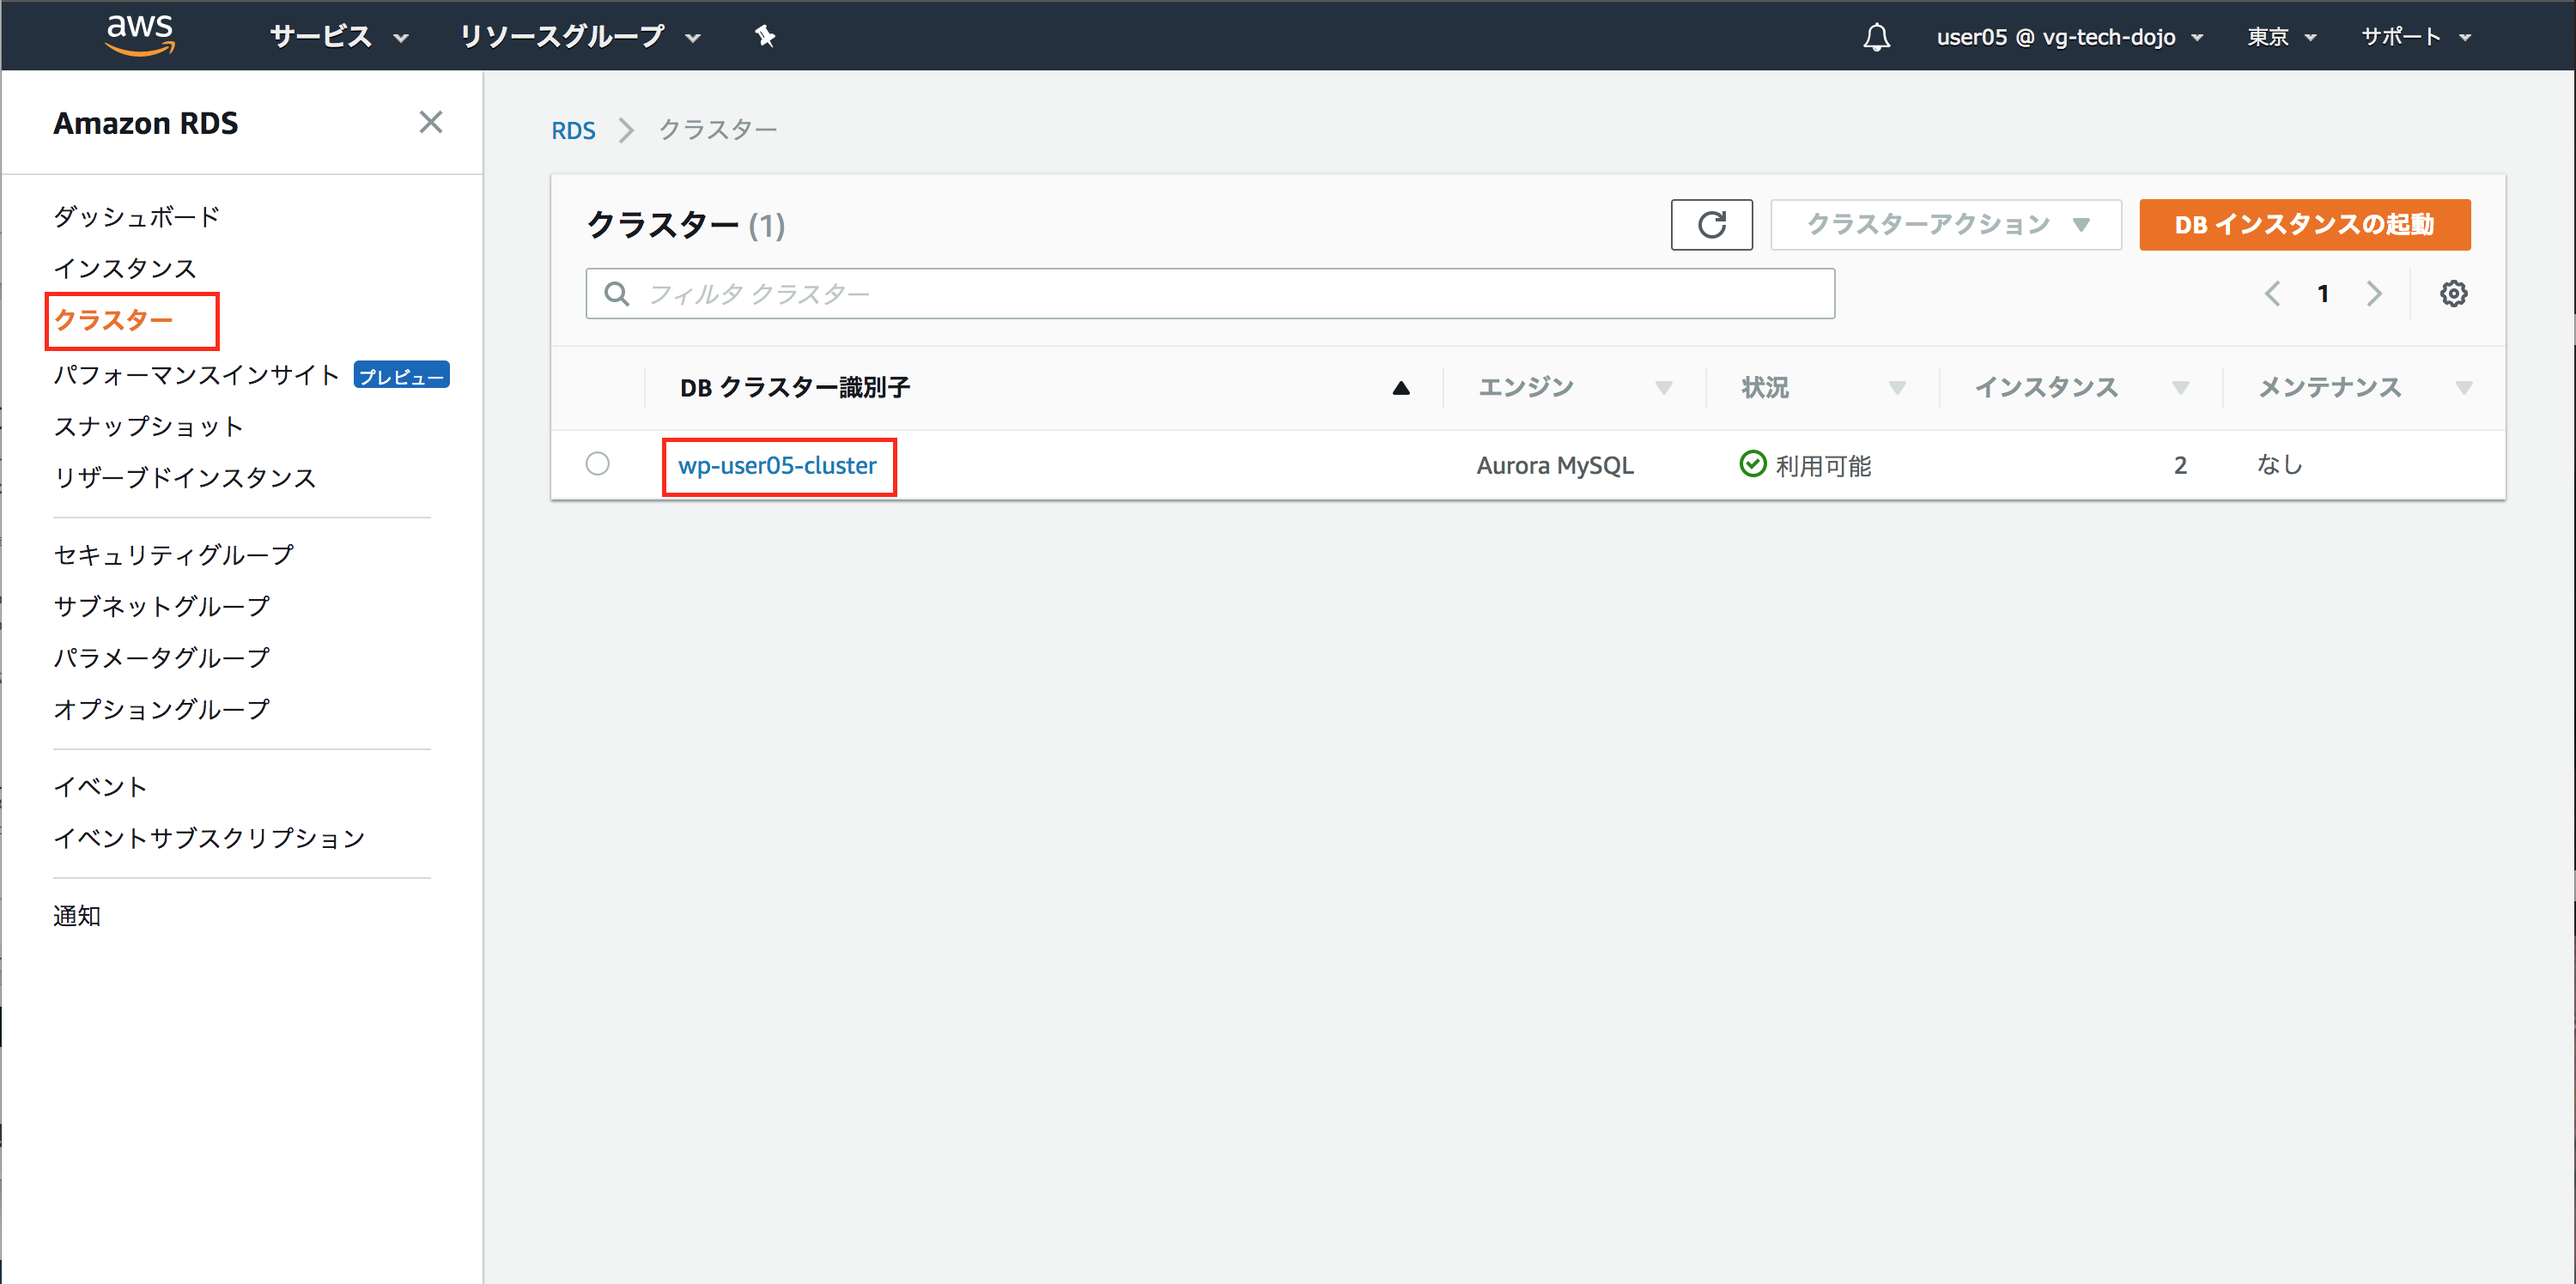
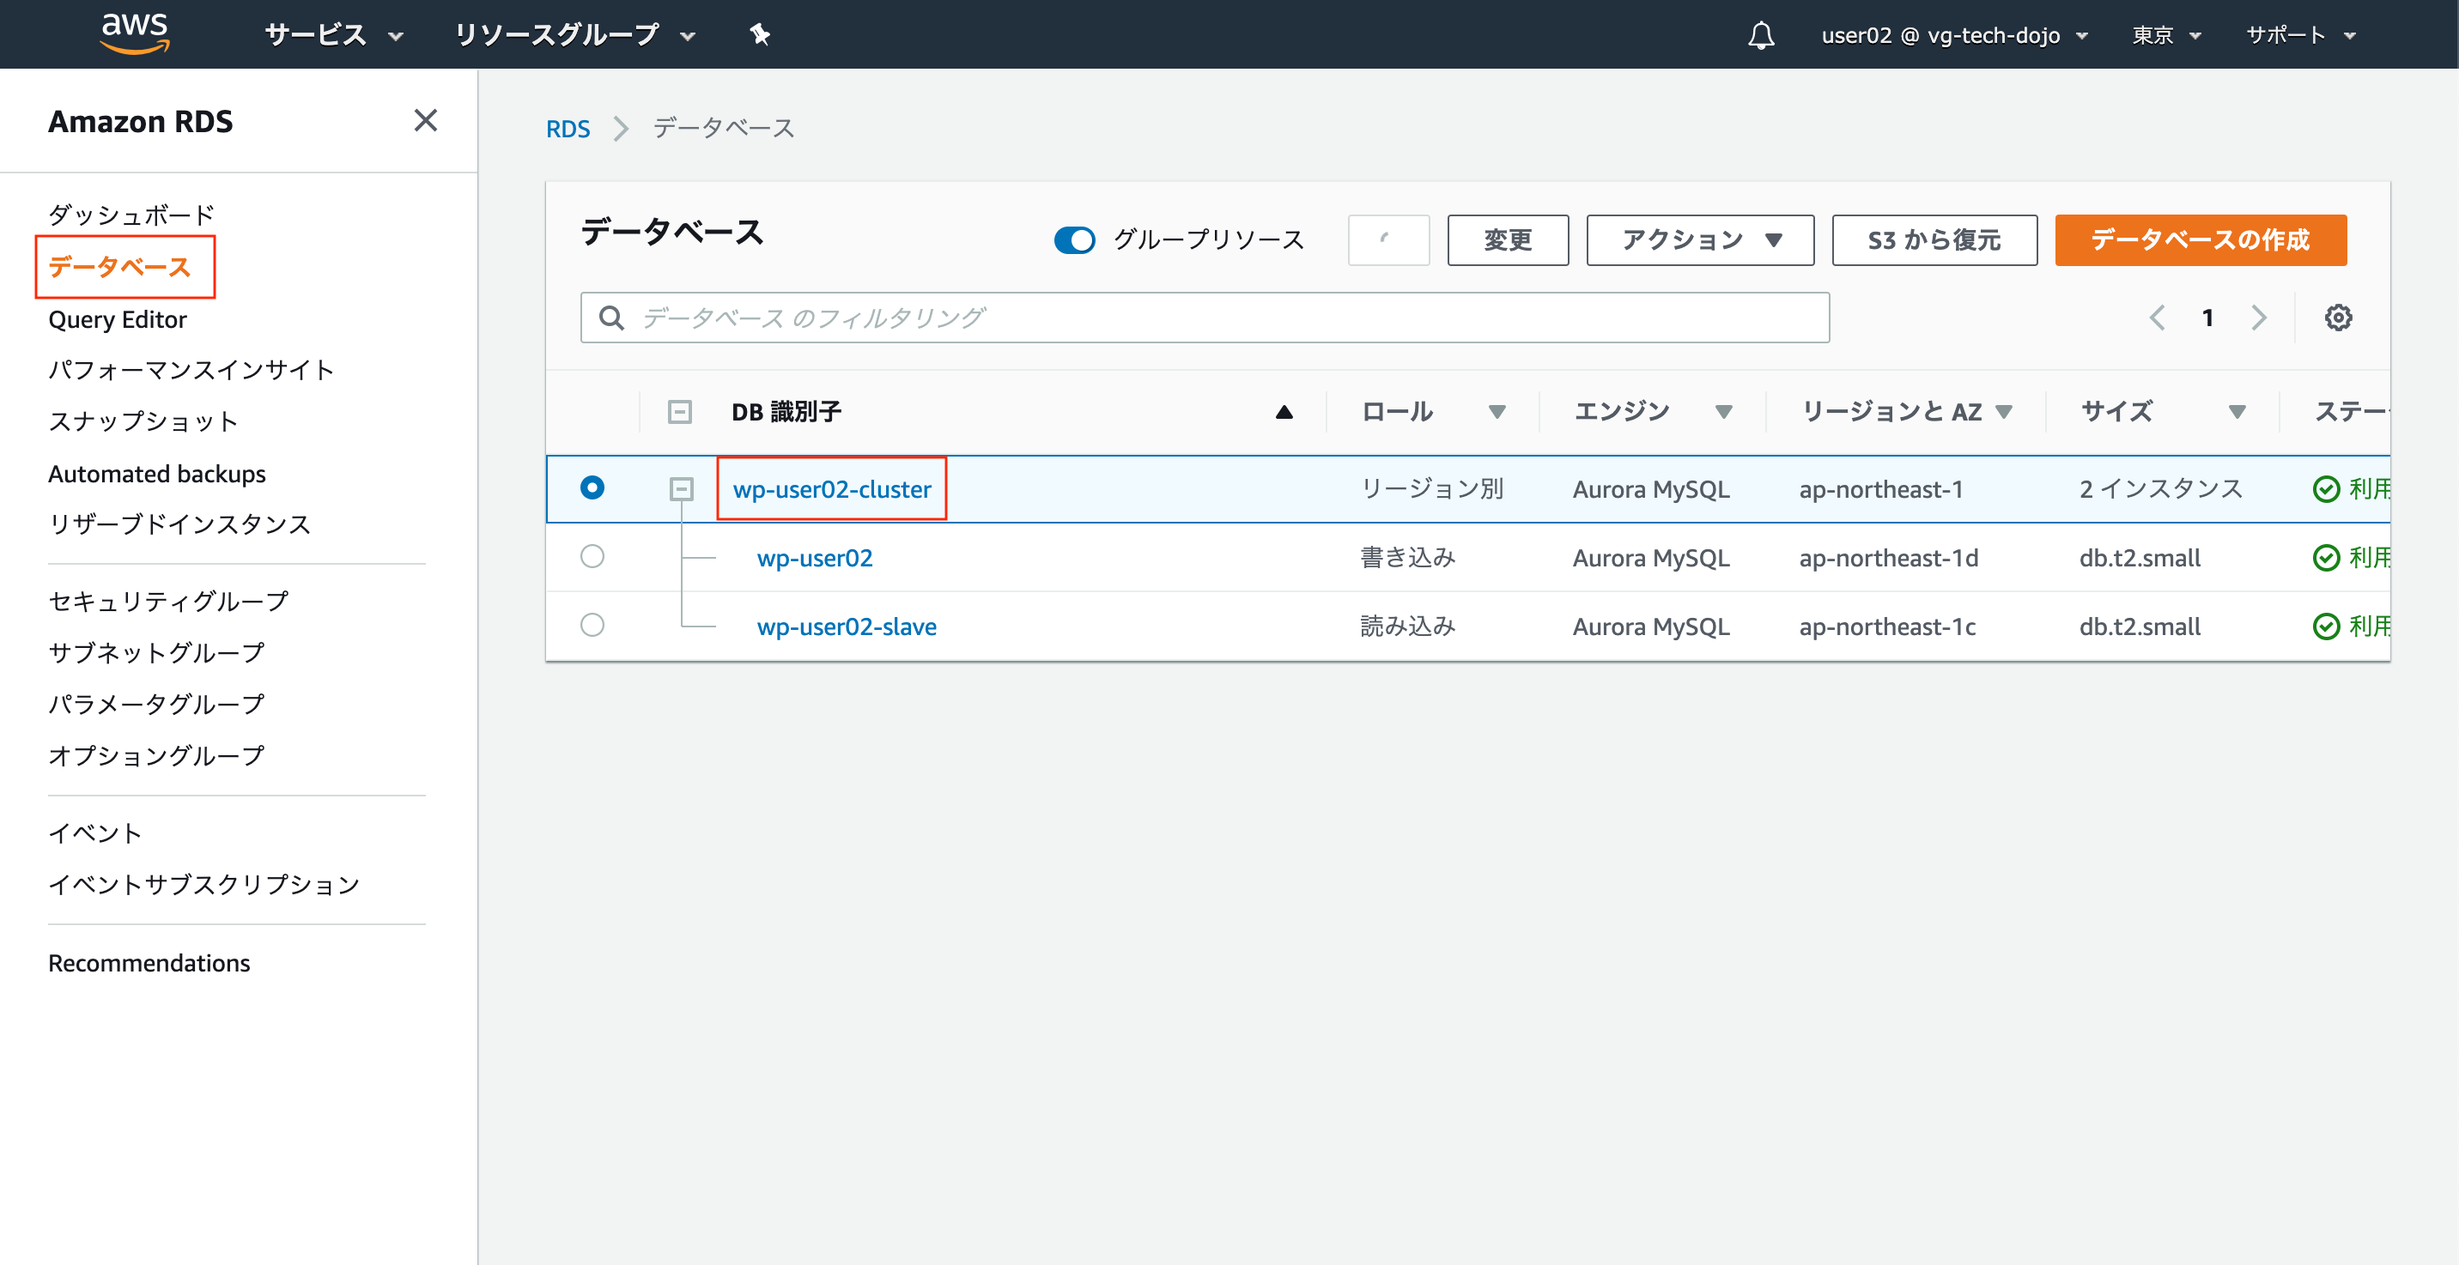
commit

diff --git a/Step-3.md b/Step-3.md
@@ -48,7 +48,7 @@ AWS MultiA-Zについて調べてみましょう(10分)
 ----
 
 ## Auroraクラスターの確認
-**追加で作成したAuroraインスタンス含めクラスターエンドポイント、読み取りエンドポイントが利用可能か確認しましょう。左のクラスターリンクをクリックしStep-2で作成したDBクラスター識別子のリンクをクリックしましょう**
+**データベースリンクから作成したクラスターリンクを押下しクラスターエンドポイント、読み取りエンドポイントが利用可能か確認しましょう。**
 
 ![aurora-cluster-1](./images/step-3/aurora-cluster-1.png "AURORA-CLUSTER1")
 
